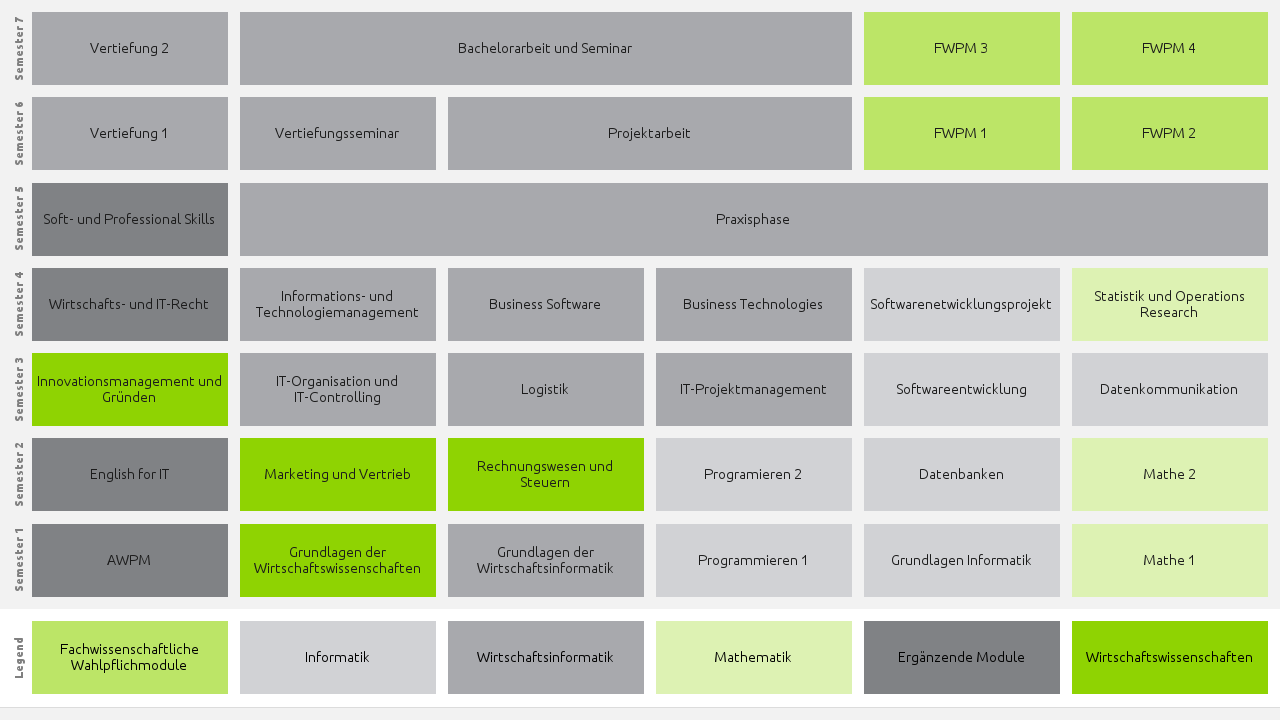
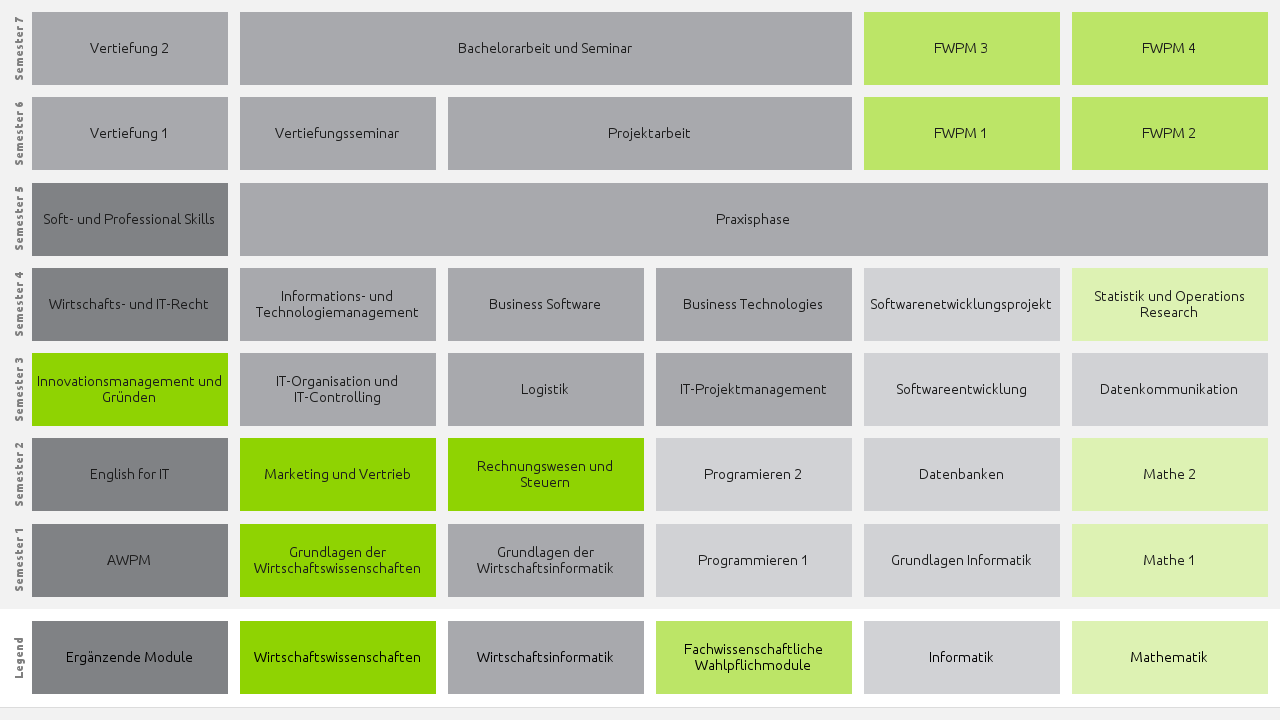
Fix legend order

Changed region(s): [[0.5, 0.8556, 1.0, 0.9778], [0.0, 0.8556, 0.3438, 0.9778]]

diff --git a/src/main/java/software/development/project/models/Legend.java b/src/main/java/software/development/project/models/Legend.java
@@ -3,6 +3,7 @@ package software.development.project.models;
 import java.awt.*;
 import java.util.*;
 import java.util.List;
+import java.util.stream.Collectors;
 
 public class Legend
 {
@@ -36,7 +37,13 @@ public class Legend
 
 	public Map<String, Color> getSubjects()
 	{
-		return subjects;
+		return subjects.entrySet().stream().sorted(new Comparator<Map.Entry<String, Color>>()
+		{
+			@Override public int compare(Map.Entry<String, Color> stringColorEntry, Map.Entry<String, Color> t1)
+			{
+				return stringColorEntry.getValue().getRGB() - t1.getValue().getRGB();
+			}
+		}).collect(Collectors.toMap(Map.Entry::getKey, Map.Entry::getValue, (e1, e2) -> e1, LinkedHashMap::new));
 	}
 
 	public void setSubjects(Map<String, Color> subjects)

diff --git a/src/main/java/software/development/project/sheet/SheetApiImpl.java b/src/main/java/software/development/project/sheet/SheetApiImpl.java
@@ -11,7 +11,7 @@ import java.util.*;
 public class SheetApiImpl implements SheetApi {
 
     private FileReader fileReader;
-    ;
+
     private CSVReader csvReader;
 
     public SheetApiImpl(String fileLocation) {
